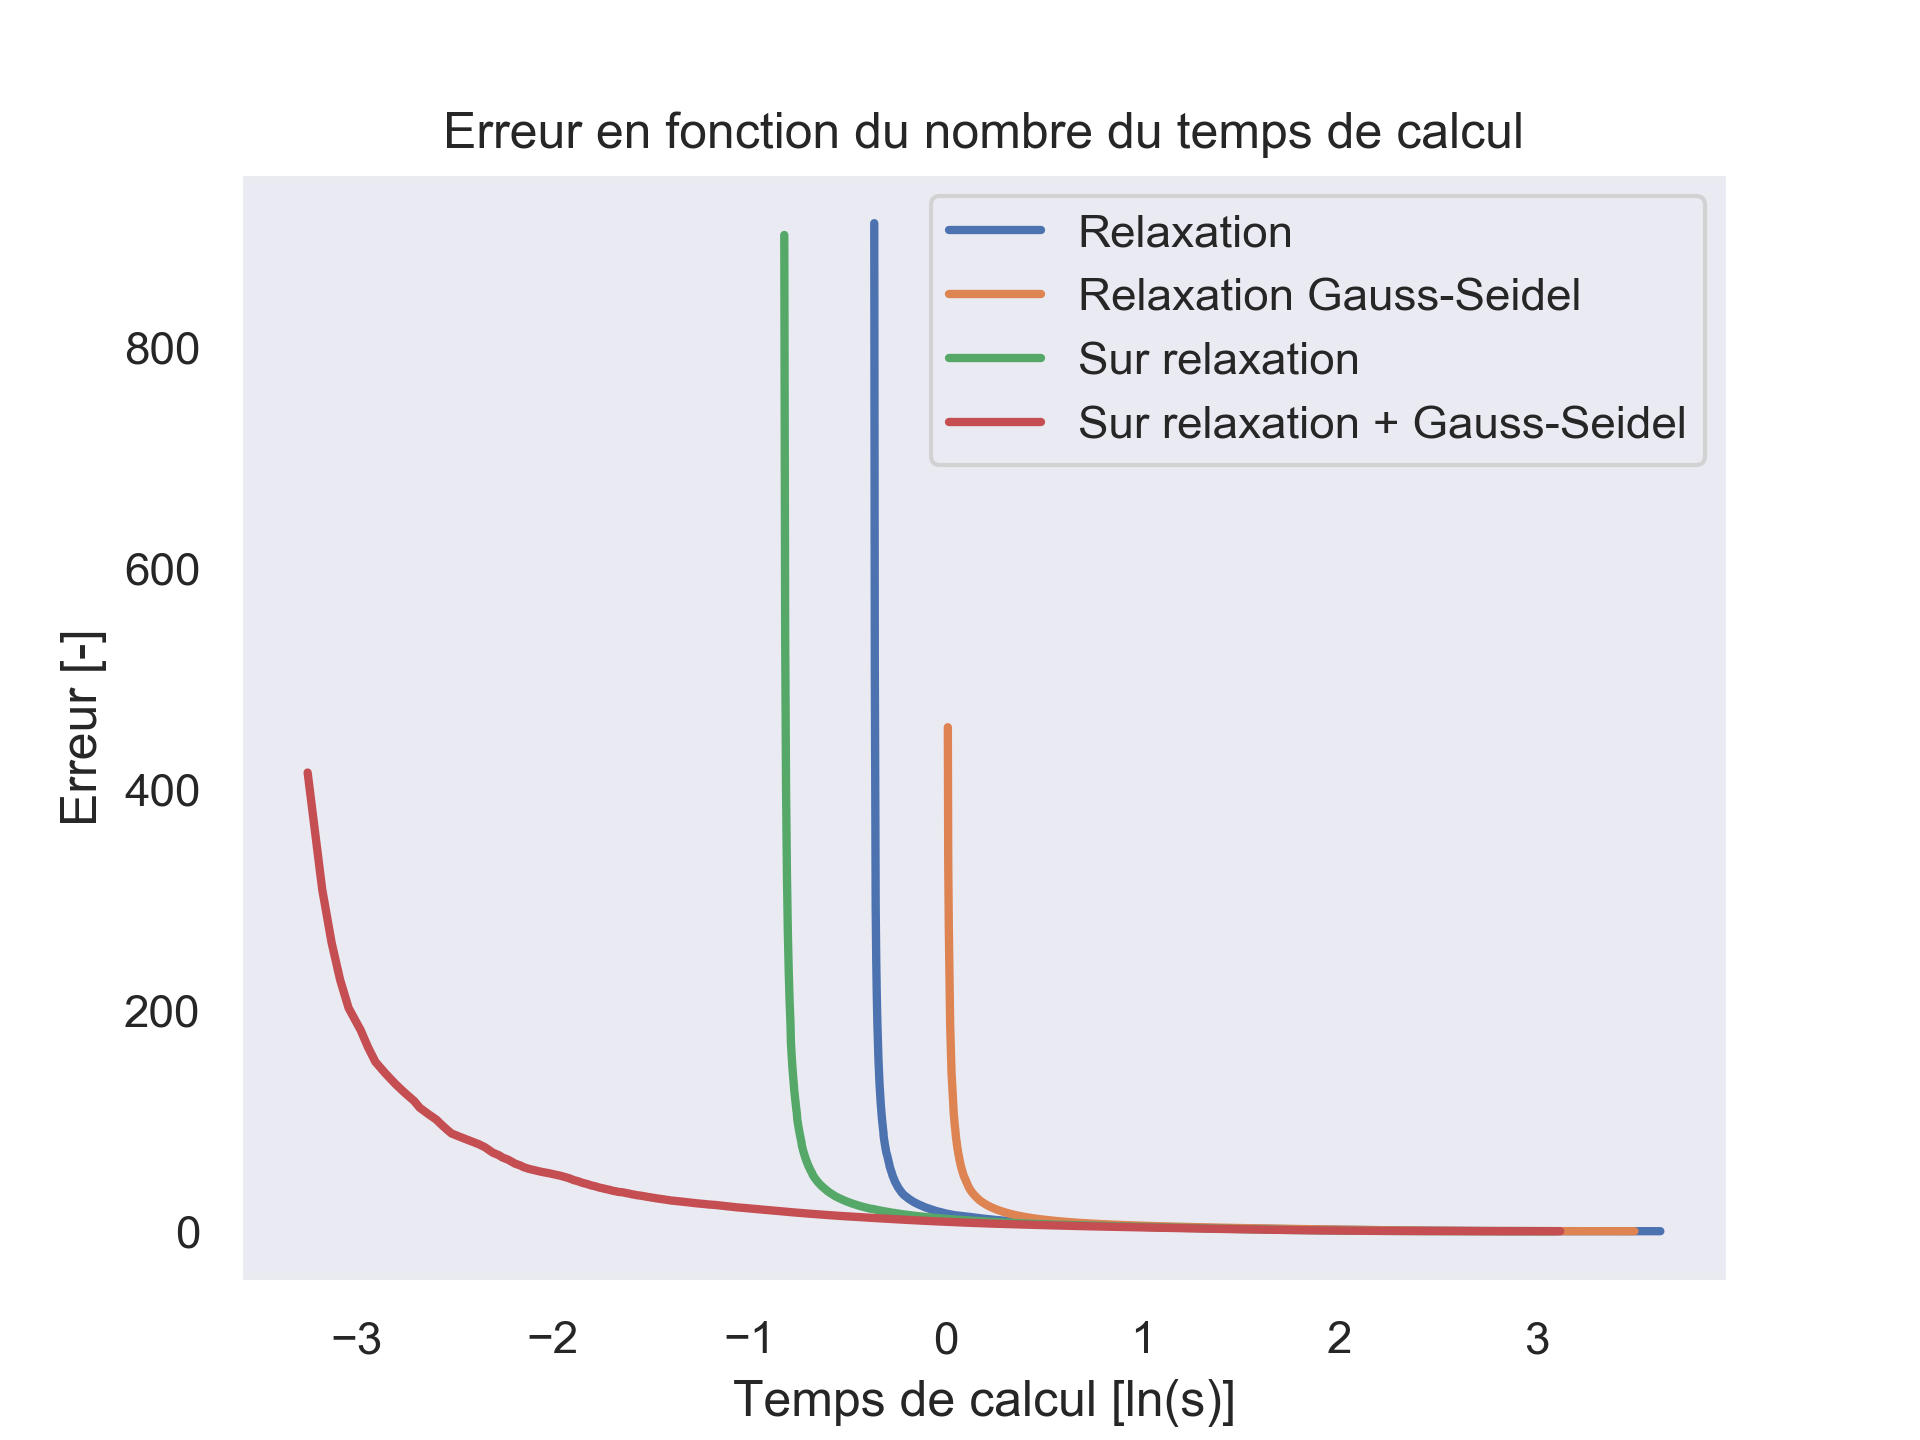
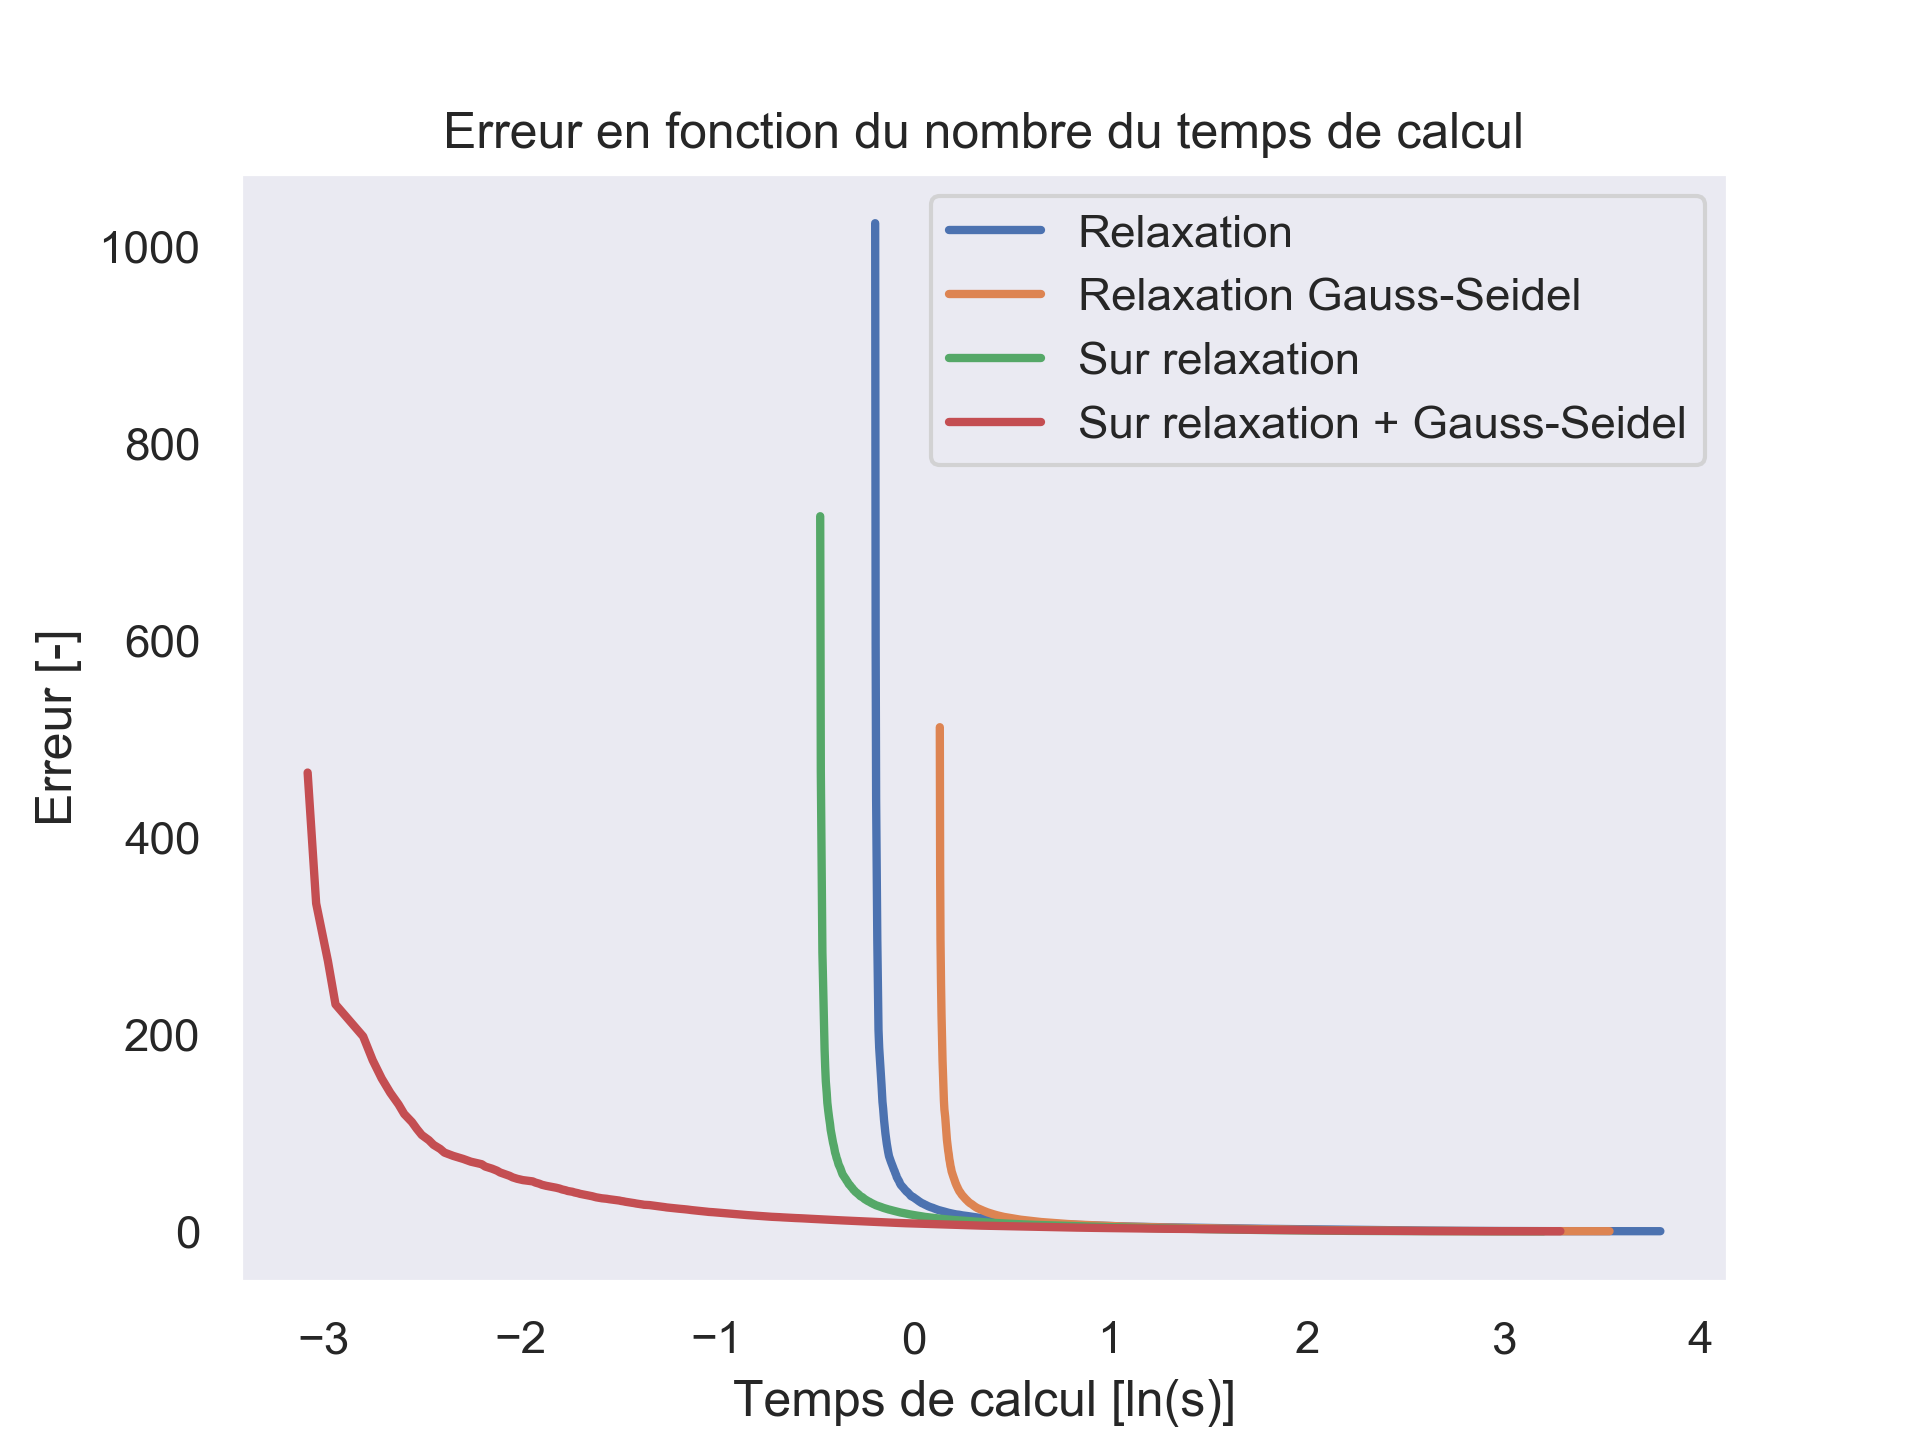
priorité d'ops mon cul

diff --git a/Relaxation.py b/Relaxation.py
@@ -34,9 +34,9 @@ class Relaxation:
         self.temps: list = list()
 
         self.kernel = lambda r: (1 / 4) * np.array(
-             [[0, 1-(1 / 2*r), 0],
+             [[0, 1-(1 / (2*r)), 0],
               [1, 0, 1],
-              [0, 1+(1 / 2*r), 0]]
+              [0, 1+(1 / (2*r)), 0]]
         )
         self.kernel_0 = lambda r: (1 / 4) * np.array(
             [[0, 1 - (1-r)/2, 0],
@@ -44,7 +44,7 @@ class Relaxation:
              [0, 1 + (1-r)/2, 0]]
         )
         self.kernels = np.array([
-            self.kernel(abs(i - 10)) if abs(i - 10) > 0 else self.kernel_0(abs(i - 10))
+            self.kernel(abs(i-10)) if abs(i-10) > 0 else self.kernel_0(abs(i-10))
             for i in range(self.grille.shape[0])
         ])
 
@@ -209,8 +209,18 @@ class SurRelaxation(Relaxation):
              [0, 1, 0],
              [0, 0, 0]]
         )
+        self.kernel_0 = lambda r: ((1 + self.w) / 4) * np.array(
+            [[0, 1 - (1 - r) / 2, 0],
+             [1, 0, 1],
+             [0, 1 + (1 - r) / 2, 0]]
+        ) - self.w * np.array(
+            [[0, 0, 0],
+             [0, 1, 0],
+             [0, 0, 0]]
+        )
         self.kernels = np.array([
-            self.kernel(i - 10) for i in range(self.grille.shape[0])
+            self.kernel(abs(i-10)) if abs(i-10) > 0 else self.kernel_0(abs(i-10))
+            for i in range(self.grille.shape[0])
         ])
 
     @jit

diff --git a/Question2b.py b/Question2b.py
@@ -54,7 +54,7 @@ if __name__ == '__main__':
 
     relax = Relaxation(grille=cylindre_1.grille, frontieres=frontieres, h_par_indice=1, h=h,
                        nom="Carte de chaleur problème 2b")
-    relax(30_000, verbose=True, affichage=False)
+    relax(30_000, verbose=False, affichage=False)
     relax.afficher_carte_de_chaleur()
     relax.afficher_etat()
 
